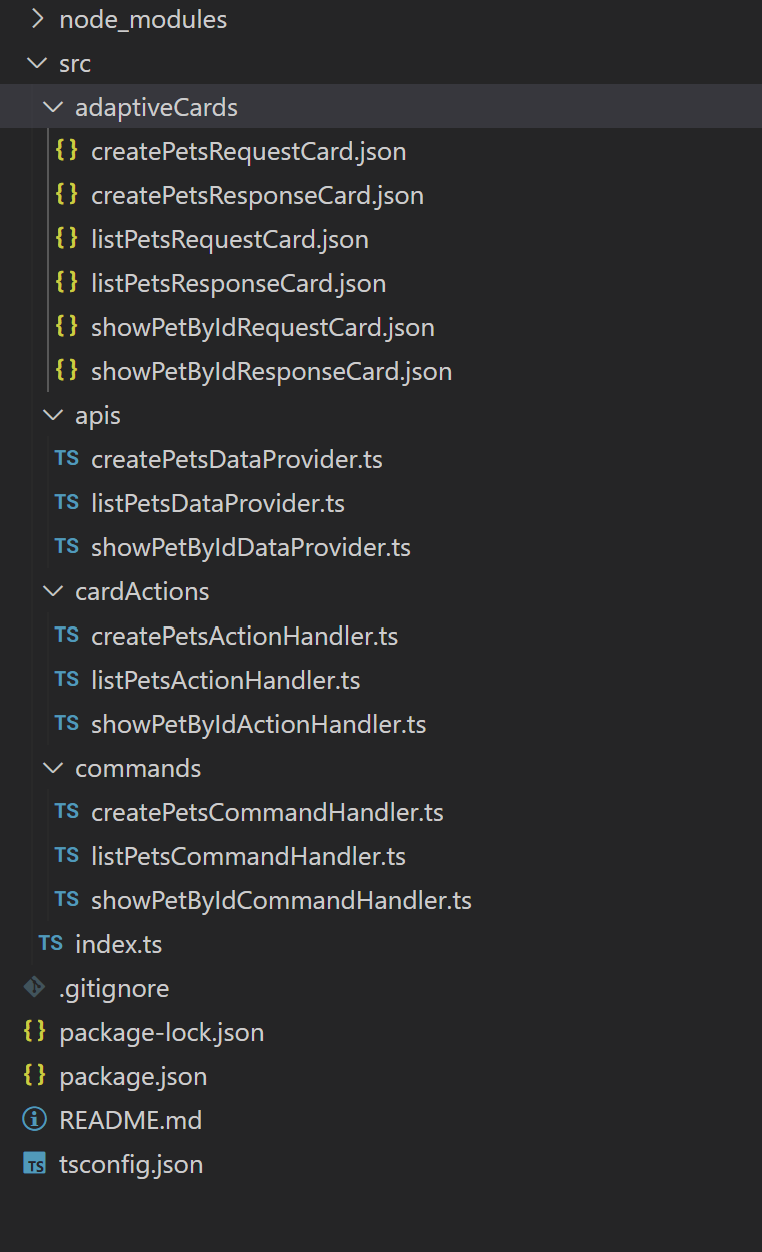
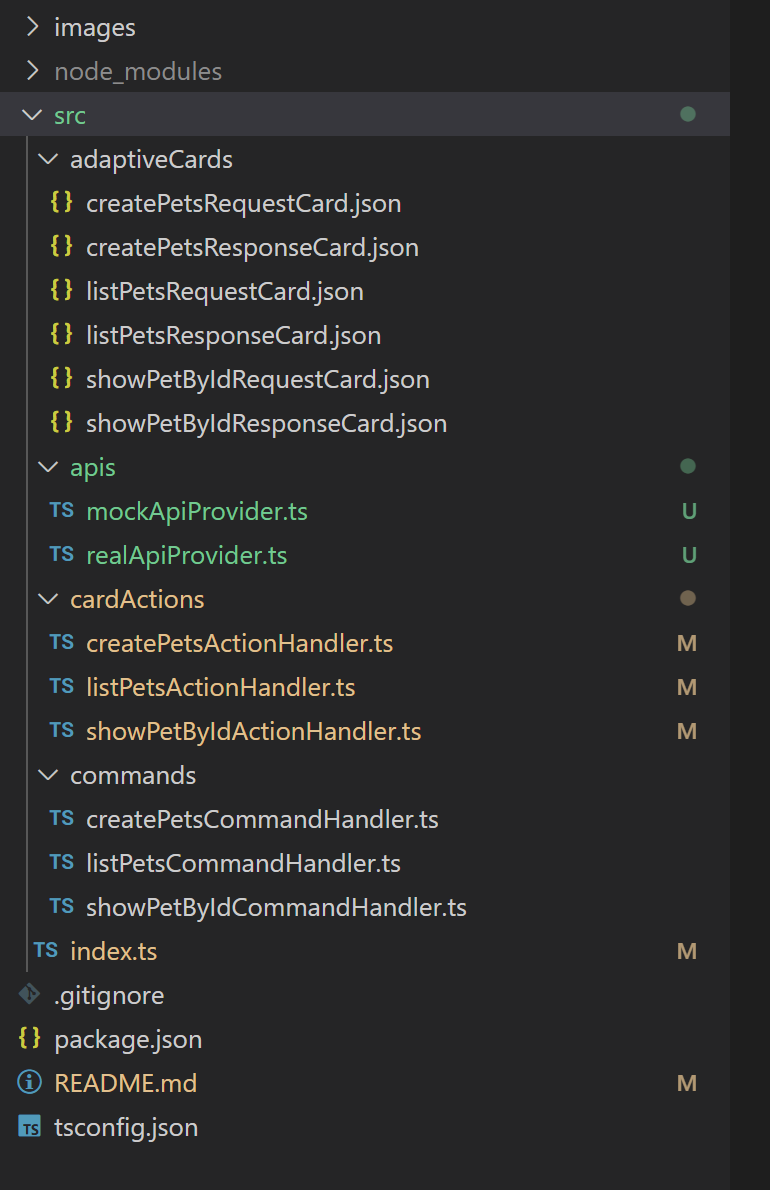
Update according to the discussion

diff --git a/src/cardActions/createPetsActionHandler.ts b/src/cardActions/createPetsActionHandler.ts
@@ -1,14 +1,16 @@
 import { AdaptiveCards } from "@microsoft/adaptivecards-tools";
 import { InvokeResponseFactory, TeamsFxAdaptiveCardActionHandler } from "@microsoft/teamsfx";
 import { TurnContext, InvokeResponse } from "botbuilder";
-import createPetsResponseCard from "../adaptiveCards/createPetsResponseCard.json"
-import { createPetsDataProvider } from "../apis/createPetsDataProvider";
+import createPetsResponseCard from "../adaptiveCards/createPetsResponseCard.json";
+
+// import { PetsApi } from "../apis/realApiProvider"; // for api calls with real backend service
+import { PetsApi } from "../apis/mockApiProvider"; // for api calls with mock data
 
 export class CreatePetsActionHandler implements TeamsFxAdaptiveCardActionHandler {
   triggerVerb: string = "createPets";
 
   async handleActionInvoked(context: TurnContext, actionData: any): Promise<InvokeResponse<any>> {
-    const cardData = createPetsDataProvider(actionData);
+    const cardData = PetsApi.createPets(actionData);
 
     const cardJson = AdaptiveCards.declare(createPetsResponseCard).render(cardData);
     return InvokeResponseFactory.adaptiveCard(cardJson);

diff --git a/src/cardActions/listPetsActionHandler.ts b/src/cardActions/listPetsActionHandler.ts
@@ -1,15 +1,16 @@
 import { AdaptiveCards } from "@microsoft/adaptivecards-tools";
 import { InvokeResponseFactory, TeamsFxAdaptiveCardActionHandler } from "@microsoft/teamsfx";
 import { TurnContext, InvokeResponse } from "botbuilder";
-import { listPetsDataProvider } from "../apis/listPetsDataProvider";
-import listPetsResponseCard from "../adaptiveCards/listPetsResponseCard.json"
+import listPetsResponseCard from "../adaptiveCards/listPetsResponseCard.json";
+
+// import { PetsApi } from "../apis/realApiProvider"; // for api calls with real backend service
+import { PetsApi } from "../apis/mockApiProvider"; // for api calls with mock data
 
 export class ListPetsActionHandler implements TeamsFxAdaptiveCardActionHandler {
-
   triggerVerb: string = "listPets";
 
   async handleActionInvoked(context: TurnContext, actionData: any): Promise<InvokeResponse<any>> {
-    const cardData = listPetsDataProvider(actionData);
+    const cardData = PetsApi.listPets(actionData);
 
     const cardJson = AdaptiveCards.declare(listPetsResponseCard).render(cardData);
     return InvokeResponseFactory.adaptiveCard(cardJson);

diff --git a/src/cardActions/showPetByIdActionHandler.ts b/src/cardActions/showPetByIdActionHandler.ts
@@ -2,13 +2,15 @@ import { AdaptiveCards } from "@microsoft/adaptivecards-tools";
 import { InvokeResponseFactory, TeamsFxAdaptiveCardActionHandler } from "@microsoft/teamsfx";
 import { TurnContext, InvokeResponse } from "botbuilder";
 import showPetByIdResponseCard from "../adaptiveCards/showPetByIdResponseCard.json"
-import { showPetByIdDataProvider } from "../apis/showPetByIdDataProvider";
+
+// import { PetsApi } from "../apis/realApiProvider"; // for api calls with real backend service
+import { PetsApi } from "../apis/mockApiProvider"; // for api calls with mock data
 
 export class ShowPetByIdActionHandler implements TeamsFxAdaptiveCardActionHandler {
   triggerVerb: string = "showPetById";
 
   async handleActionInvoked(context: TurnContext, actionData: any): Promise<InvokeResponse<any>> {
-    const cardData = showPetByIdDataProvider(actionData);
+    const cardData = PetsApi.showPetById(actionData);
 
     const cardJson = AdaptiveCards.declare(showPetByIdResponseCard).render(cardData);
     return InvokeResponseFactory.adaptiveCard(cardJson);

diff --git a/src/apis/mockApiProvider.ts b/src/apis/mockApiProvider.ts
@@ -1,0 +1,28 @@
+// mock api, you need to update the code in realProvider to call backend service
+
+export class PetsApi {
+  public static createPets(data: any):any {
+    return {
+      "code": 1,
+      "message": "value"
+    };
+  }
+
+  public static listPets(data: any):any {
+    return [
+      {
+        "id": 1,
+        "name": "value",
+        "tag": "value"
+      }
+    ];
+  }
+
+  public static showPetById(data: any):any {
+    return {
+      "id": 1,
+      "name": "value",
+      "tag": "value"
+    };
+  }
+}

diff --git a/src/index.ts b/src/index.ts
@@ -17,7 +17,7 @@ const commandBot = new ConversationBot({
   },
   command: {
     enabled: true,
-    commands: [new CreatePetsCommandHandler(), new ShowPetByIdCommandHandler(), new ListPetsCommandHandler()],
+    commands: [new ListPetsCommandHandler(),new CreatePetsCommandHandler(), new ShowPetByIdCommandHandler()],
   },
   cardAction: {
     enabled: true,

diff --git a/src/apis/realApiProvider.ts b/src/apis/realApiProvider.ts
@@ -1,0 +1,6 @@
+// Update this code to call real backend service
+export class PetsApi {
+  public createPets(data: any):any {}
+  public listPets(data: any):any {}
+  public showPetById(data: any):any {}
+}

diff --git a/README.md b/README.md
@@ -6,9 +6,10 @@ In the root folder, there are `package.json`, `README.md` and `tsconfig.json` fi
 In the src folder, there are 4 sub folders:
 * adaptiveCards folder
     - This folder contains adaptive card generated by Convert Tool based on APIs. Each API will generate two adaptive cards, one is `*RequestCard.json`, and another is `*ResponseCard.json`. Request card is for user to input parameters and click button to send request, and response card is used to render api response data.
+    > Using this pattern is more clear than use component name (although it may produce duplicated cards), because component name can be used by multiple apis, and it is not easy for user to know which adaptive card is for specific api
 
 * apis folder
-    - This folder contains ts file which mock api calls, user need to manually update these files to call real backend service
+    - This folder contains two ts file, one is for mock api calls (mockApiProvider.ts) and another is for real api calls (realApiProvider.ts). For real api calls, user need to manually update these files to call real backend service
 
 * cardActions folder
     - This folder contains card action handlers, when user click action button in the request adaptive card, it would use these handlers to get response and render response adaptive card.
@@ -19,15 +20,4 @@ In the src folder, there are 4 sub folders:
 ![](./images/project-structure.png)
 
 # Discuss
-- For adaptive cards: if response schema use `ref` property, we can use component name as the adaptive card name, and can reuse it for different api. However, some response body may not contain `ref` property.
-
-- For apis, we can refer the design of swagger client code generator, use one file as APIs
-```ts
-export class PetsApi {
-    public createPets(options?: any) {}
-    public listPets(limit?: number, options?: any) {}
-    public showPetById(petId: string, options?: any) {},
-}
-```
-
-- Tim's questions: why not call real backend service: Because our main target is help user to generate a working demo project, user can update it for real use. Call real code will introduce complexity (such as auth), and most backend service may contain their own sdk, user may want to use the sdk to call real code. And from our previous experience of our connector api inside teamsfx sdk(which generate code to help user to call their apis), and the usage is very low.
+- Tim's questions: why not call real backend service: Because our main target is help user to generate a working demo project, user can update it for real use. Call real code will introduce complexity (such as auth), and most backend service may contain their own sdk, user may want to use the sdk to call real code. And from our previous experience of our connector api inside teamsfx sdk(which generate code to help user to call their apis), and the usage is low.
